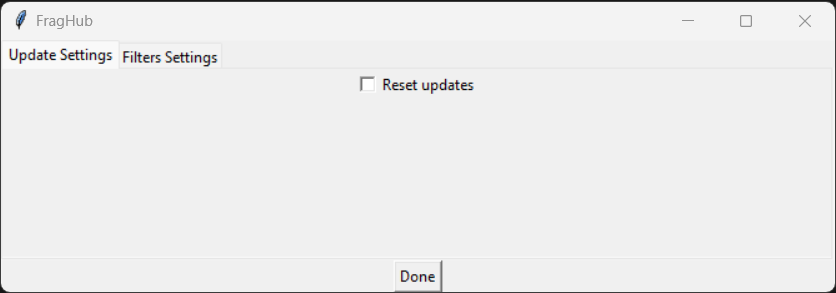
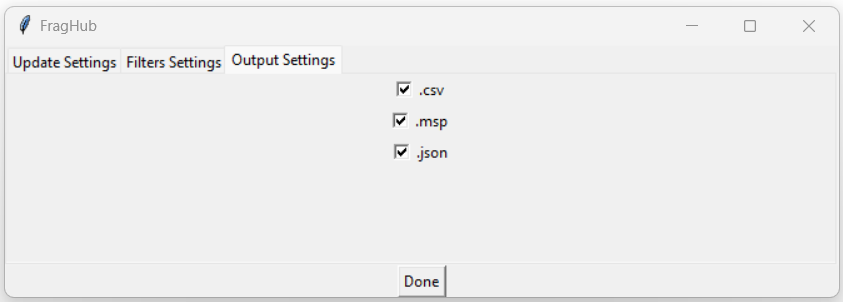
Corrected images links and added third tab in README
The commit corrects the broken links of images in the first and second tabs of README.md. In addition, description and screenshot of a new `Third tab` have been added to provide more comprehensive documentation for users.

diff --git a/README.md b/README.md
@@ -15,8 +15,9 @@ To use this programme:
 1) Put your msp, mgf, json, csv or xml files into 'INPUT/\<dedicated folder\>'.
 2) Double-click on your corresponding OS run script into RUN folder.<br>
    1) FragHub GUI start<br>
-   2) First tab: The 'Reset updates' option, when checked, allows for a reset of everything related to previously encountered spectra. This will also delete all existing files located in the OUTPUT folder.<br>![img_2.png](img_2.png)
-   3) Second tab: This area allows users to select specific functions for inclusion during the processing stage. Moreover, it provides the option to adjust the respective parameters of each function.<br>![img_3.png](img_3.png)
+   2) First tab: The 'Reset updates' option, when checked, allows for a reset of everything related to previously encountered spectra. This will also delete all existing files located in the OUTPUT folder.<br>![img.png](img.png)
+   3) Second tab: This area allows users to select specific functions for inclusion during the processing stage. Moreover, it provides the option to adjust the respective parameters of each function.<br>![img_1.png](img_1.png)
+   4) Third tab: <br>![img_2.png](img_2.png)
 3) When the execution is complete, please remember to take a copy of your cleaned files from the OUTPUT folder and place them in a different location.
 4) **DO NOT DELETE FILES INTO 'OUTPUT' AFTER COPY CLEANED VERSIONS.**
 
